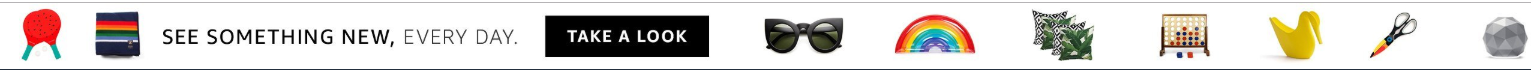
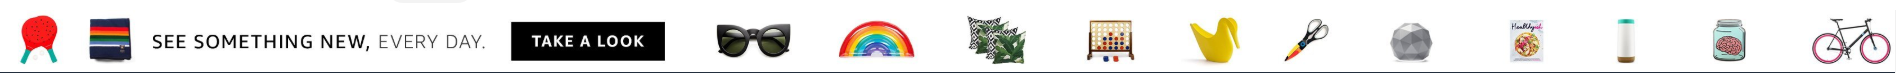
finalized top bar and nav

diff --git a/css/style.css b/css/style.css
@@ -9,6 +9,7 @@ body {
     height: 100vh;
     width: 100vw;
     background-color: #EAEDED;
+    overflow-x: hidden;
 }
 
 a {
@@ -30,28 +31,37 @@ h4 {
 
 .header-container {
     background-color: black;
-    height: 90px;
+    height: 20%;
+    width: 100vw;
 }
 
 .top-bar {
     background-color: blue;
-    height: 30px;
+    height: 35%;
     background-image: url('../img/sm_topbar.png');
+    background-repeat: no-repeat;
     background-size: cover;
+    margin-right:2px;
+    padding:2px;
 }
 
 .top-nav {
     background-color: #232f3e;
-    height: 60px;
+    height: 65%;
+    padding-top:3px;
 }
 
 .top-left {
-    width: 110px;
+    width: 13%;
     float: left;
+    padding-right: 5px;
+    background-image: url(../img/sm_left.PNG);
 }
 
-.top-left>img, .top-right>img{
-    height: 60px;
+.top-left, .top-right{
+    height: 100%;
+    background-size: contain;
+    background-repeat: no-repeat;
 }
 
 .top-left,
@@ -60,19 +70,37 @@ h4 {
     height: 100%;
 }
 .top-middle {
-    width: calc(100% - 330px);
+    width: 59%;
     float: left;
     text-align: center;
+    padding: 0px 5px;
+}
+
+.top-right {
+    width: 26%;
+    float: right;
+    overflow: hidden;
+    margin-right: 2px;
+    background-image: url(../img/sm_right.PNG);
 }
 .top-search {
-    width: 350px;
+    width: 92.5%;
     margin-top: 5px;
+    float: left;
+    height:30%;
+}
+.top-search-button {
+    background-color: #febd69;
+    border-top-right-radius: 2px;
+    border-bottom-right-radius: 2px;
+    margin-top: 5px;
+    float:left;
+    height:35%
 }
 
 .top-nav-items {
     text-align: left;
-    margin-top: 15px;
-    margin-left: 22px;
+    margin-top: 50px;
 }
 .top-nav-items > li {
     display: inline-block;
@@ -80,11 +108,12 @@ h4 {
 }
 
 .top-nav-items > li > a {
-    font-size: 8px;
+    font-size: 12px;
     text-decoration: none;
-    color: #ffffff;
+    color: #CCC;
     padding: 4px;
     display: block;
+    font-family: Arial, Helvetica, sans-serif;
 }
 
 .top-nav-items >li:hover {
@@ -92,18 +121,12 @@ h4 {
     border-radius: 5px;
     
 }
-.top-search-button {
-    background-color: #febd69;
-    border-top-right-radius: 2px;
-    border-bottom-right-radius: 2px;
-}
-.top-right {
-    width: 220px;
+
+
+.top-right>img {
+    height: 100%;
     float: right;
-    overflow: hidden;
-}
-.topright>img {
-    background-position: 30px 0;
+    margin-right:17px;
 }
 
 .main-body {

diff --git a/index.html b/index.html
@@ -11,12 +11,12 @@
         <div class="top-bar"></div>
         <div class="top-nav">
             <div class="top-left">
-                <img src="./img./sm_left.png" alt="top-left">
+                <!-- <img src="./img./sm_left.png" alt="top-left"> -->
             </div>
 
             <div class="top-middle">
                 <input type="text" class="top-search">
-                <button type="button" class="top-search-button">Search</button>>
+                <button type="button" class="top-search-button">Search</button>
                 <ul class="top-nav-items">
                     <li>
                         <a href=#>Your Amazon.com</a>
@@ -42,7 +42,7 @@
                 </ul>
             </div>
             <div class="top-right">
-                <img src="./img./sm_right.png" alt="top-right">
+                <!-- <img src="./img./sm_right.png" alt="top-right"> -->
             </div>
         </div>
     </header>
